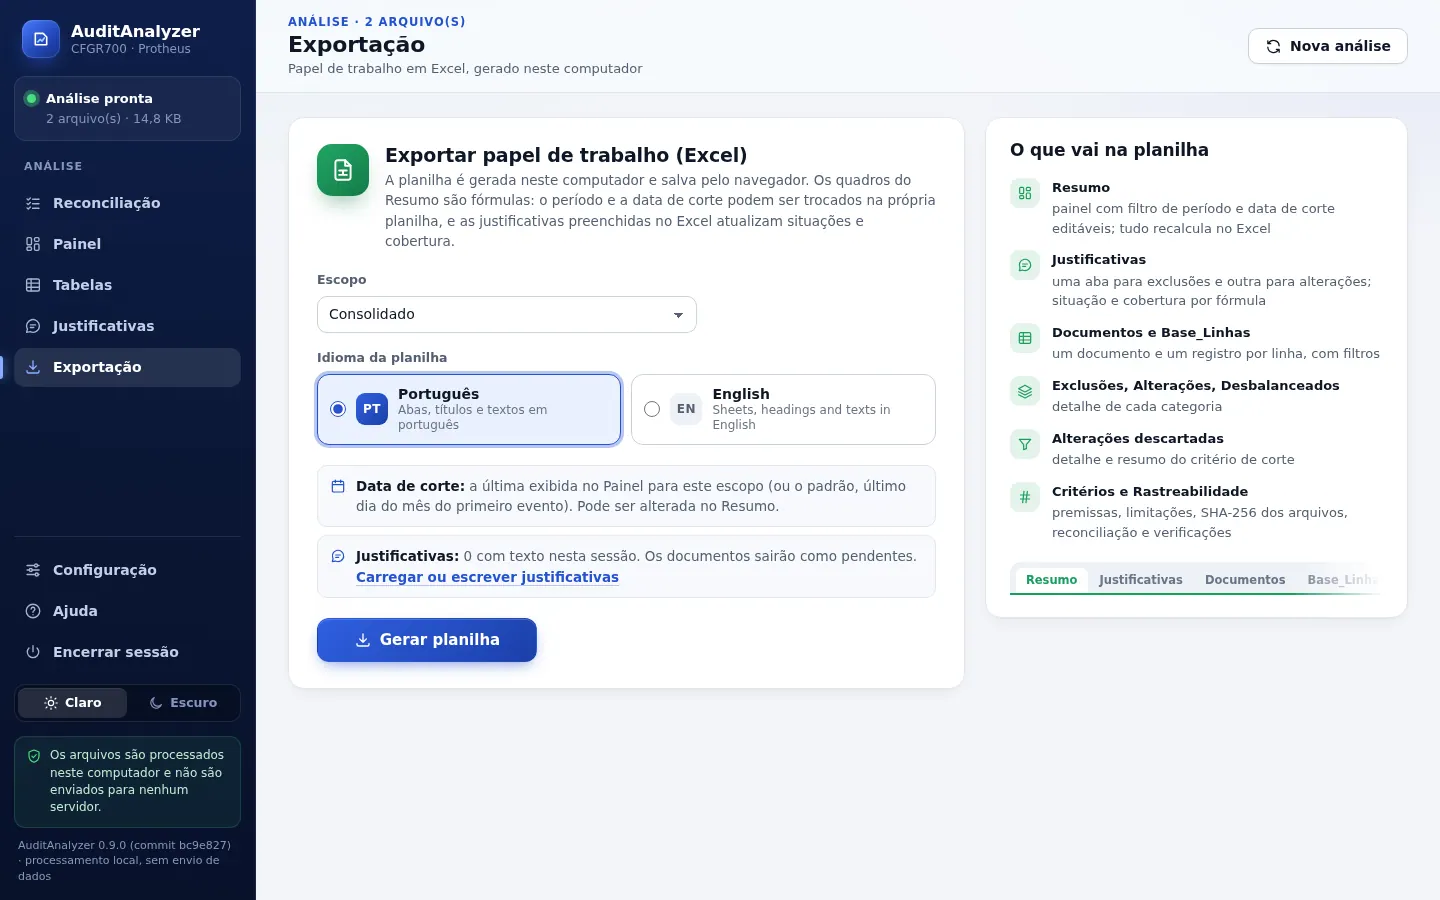
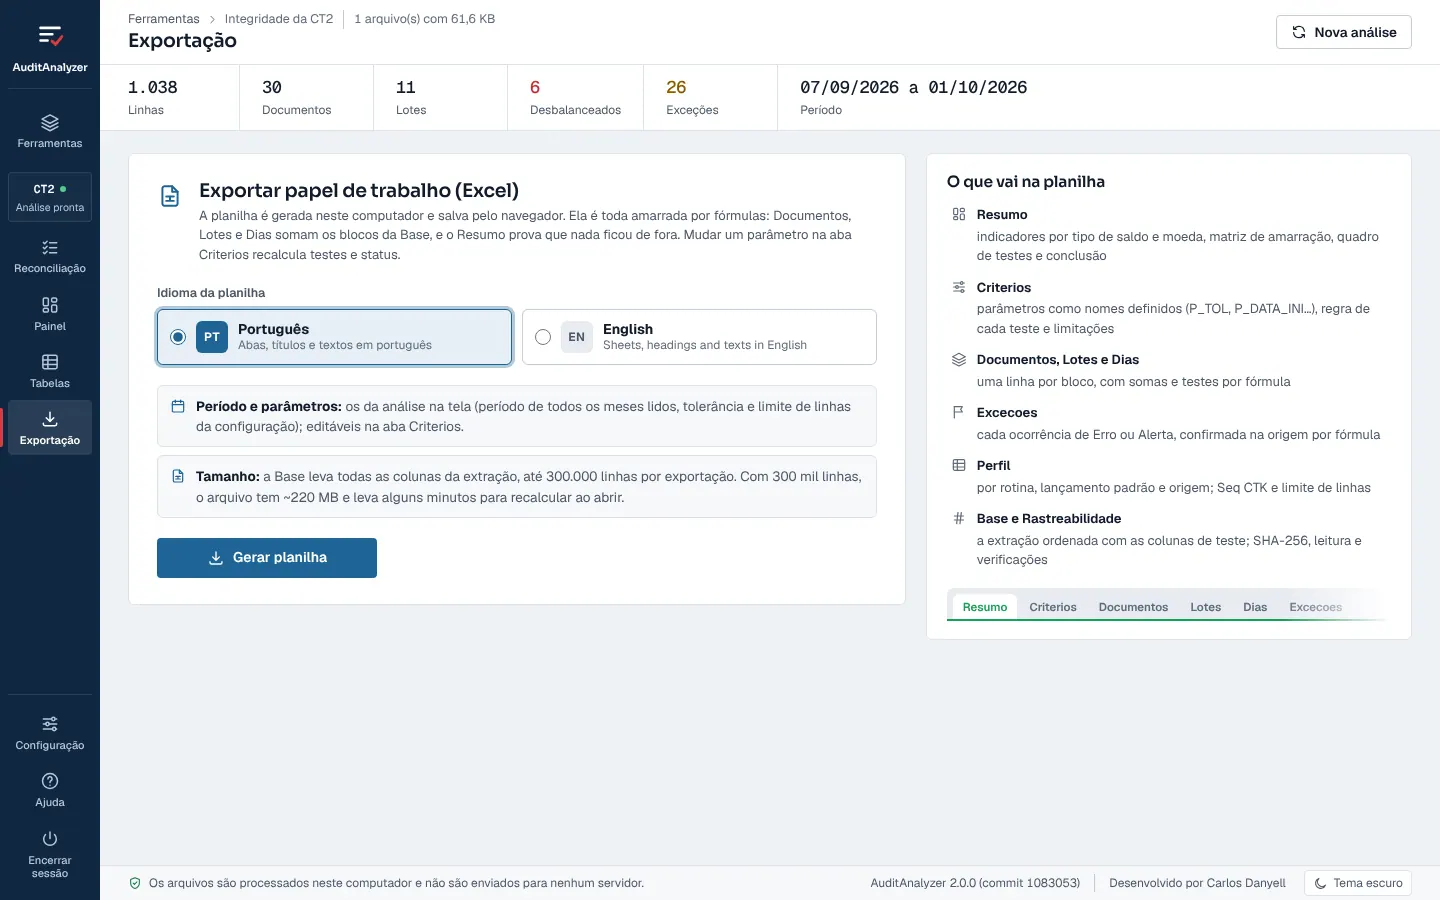
AuditAnalyzer 2.0 no portfólio: plataforma, Integridade da CT2 e novas capturas
- Texto do projeto (pt e en): plataforma de ferramentas de auditoria, com o log de auditoria CFGR700 e a
  Integridade da CT2, papel de trabalho amarrado por fórmulas e interface pronta para novas ferramentas.
- Seis capturas novas da versão 2.0.0, com dados sintéticos: painel da CT2, ferramentas, reconciliação, tabelas
  no tema escuro, painel do CFGR700 e exportação. Só as imagens do AuditAnalyzer foram reprocessadas (mesmos
  tamanhos e qualidade do scripts/process-images.mjs); as demais entradas do manifesto não mudaram.
- Ferramenta de conciliação: pode entrar como uma das ferramentas da plataforma AuditAnalyzer.

Claude-Session: https://claude.ai/code/session_015P9YY8hZswHsBsD8JxLBeJ

diff --git a/src/i18n/pt.ts b/src/i18n/pt.ts
@@ -169,25 +169,26 @@ export const pt = {
       },
       auditanalyzer: {
         name: 'AuditAnalyzer',
-        kind: 'Aplicação web · Auditoria',
+        kind: 'Plataforma web · Auditoria',
         summary:
-          'Ferramenta que analisa o log de auditoria CFGR700 do TOTVS Protheus (lançamentos contábeis da CT2) e gera um papel de trabalho em Excel para auditoria interna e SOX. Todo o processamento acontece no navegador.',
+          'Plataforma de ferramentas de auditoria contábil para o TOTVS Protheus que roda inteira no navegador. Reúne a análise do log de auditoria CFGR700 e a integridade da extração da CT2, e gera papéis de trabalho em Excel para auditoria interna e SOX.',
         highlights: [
-          'Aponta exclusões, alterações, postagens e documentos desbalanceados, por período e por origem manual ou automática',
+          'Log de auditoria (CFGR700): exclusões, alterações, postagens e documentos desbalanceados, por período e por origem manual ou automática',
+          'Integridade da CT2: débito e crédito por documento, lote e dia em cada tipo de saldo e moeda, com testes de balanceamento, consistência e estrutura',
+          'Papel de trabalho amarrado por fórmulas: mudar a tolerância ou o período na planilha recalcula os testes e os status',
           'Lê arquivos de até cerca de 1 milhão de linhas em fluxo, num Web Worker, sem travar a interface',
-          'Papel de trabalho em Excel, em português ou inglês, com justificativas e reconciliação de linhas',
-          'Integridade verificável: SHA-256 dos arquivos, CRC32 do ZIP e invariantes que bloqueiam a exportação',
-          'Nenhum dado sai da máquina: sem servidor, sem chamadas de rede e com Content-Security-Policy restrita',
-          'Regras configuráveis, testes com arquivos sintéticos e testes ponta a ponta com Playwright no CI',
+          'Nenhum dado sai da máquina: sem servidor nem chamadas de rede, com SHA-256 dos arquivos e verificações que bloqueiam a exportação',
+          'Interface de console pronta para receber novas ferramentas, como conciliações, com testes sintéticos e ponta a ponta no CI',
         ],
         shots: {
-          '01-painel':
-            'Painel com excluídos, alterados, desbalanceados e postados, e a tabela de categorias por origem',
-          '02-inicio': 'Tela inicial para carregar as extrações do CFGR700, com o passo a passo da análise',
-          '03-reconciliacao': 'Reconciliação com a integridade dos arquivos, os totais lidos e as verificações',
-          '04-tabelas': 'Tabela de documentos com busca, filtro por origem e abas por categoria',
-          '05-justificativas': 'Lista de documentos excluídos com a situação e a justificativa de cada um',
-          '06-exportacao': 'Exportação do papel de trabalho em Excel, em português ou inglês',
+          '01-painel-ct2':
+            'Painel da integridade da CT2 com os indicadores-chave, os totais por tipo de saldo e moeda e o quadro de testes',
+          '02-ferramentas': 'Tela inicial com as ferramentas da plataforma, o que cada uma lê e a situação',
+          '03-reconciliacao': 'Reconciliação com o veredito de integridade, as verificações e o quadro de testes',
+          '04-tabelas': 'Tabela de documentos da CT2 no tema escuro, com segmento, busca e as colunas de teste',
+          '05-painel-cfgr700':
+            'Painel do log de auditoria com período, data de corte e as categorias por origem manual ou automática',
+          '06-exportacao': 'Exportação do papel de trabalho amarrado por fórmulas, em português ou inglês',
         },
       },
       conciliacao: {
@@ -198,6 +199,7 @@ export const pt = {
         highlights: [
           'Cruza os lançamentos do razão com os relatórios do ERP',
           'Roda no navegador, na própria máquina: nenhum dado é enviado para fora',
+          'Pode entrar como uma das ferramentas da plataforma AuditAnalyzer',
         ],
         illustrationAlt: 'Ilustração abstrata de duas colunas de registros sendo cruzadas e conciliadas',
         shots: {},

diff --git a/src/i18n/en.ts b/src/i18n/en.ts
@@ -170,24 +170,26 @@ export const en: Dict = {
       },
       auditanalyzer: {
         name: 'AuditAnalyzer',
-        kind: 'Web application · Audit',
+        kind: 'Web platform · Audit',
         summary:
-          'A tool that analyzes the TOTVS Protheus CFGR700 audit log (journal entries, table CT2) and produces an Excel workpaper for internal audit and SOX. All processing happens in the browser.',
+          'A platform of accounting audit tools for TOTVS Protheus that runs entirely in the browser. It brings together the CFGR700 audit log analysis and the integrity of the CT2 journal extraction, and produces Excel workpapers for internal audit and SOX.',
         highlights: [
-          'Flags deleted, changed and posted entries and unbalanced documents, by period and by manual or automatic origin',
+          'Audit log (CFGR700): deleted, changed and posted entries and unbalanced documents, by period and by manual or automatic origin',
+          'CT2 integrity: debits and credits per document, batch and day within each balance type and currency, with balancing, consistency and structure tests',
+          'Workpaper tied out by formulas: changing the tolerance or the period in the spreadsheet recalculates the tests and their status',
           'Streams files of up to about 1 million rows in a Web Worker, keeping the interface responsive',
-          'Excel workpaper in Portuguese or English, with justifications and a row reconciliation',
-          'Verifiable integrity: SHA-256 of the files, ZIP CRC32 checks and invariants that block the export',
-          'No data leaves the machine: no server, no network calls and a strict Content-Security-Policy',
-          'Configurable rules, tests with synthetic files and end-to-end tests with Playwright in CI',
+          'No data leaves the machine: no server and no network calls, with SHA-256 of the files and checks that block the export',
+          'A console interface ready for new tools, such as reconciliations, with synthetic and end-to-end tests in CI',
         ],
         shots: {
-          '01-painel': 'Dashboard with deleted, changed, unbalanced and posted documents and the table by origin',
-          '02-inicio': 'Start screen for loading the CFGR700 extractions, with the analysis steps',
-          '03-reconciliacao': 'Reconciliation with file integrity, the totals read and the checks',
-          '04-tabelas': 'Documents table with search, origin filter and one tab per category',
-          '05-justificativas': 'List of deleted documents with the status and justification of each one',
-          '06-exportacao': 'Export of the Excel workpaper, in Portuguese or English',
+          '01-painel-ct2':
+            'CT2 integrity dashboard with the key figures, totals by balance type and currency and the board of tests',
+          '02-ferramentas': 'Start screen with the platform tools, what each one reads and its status',
+          '03-reconciliacao': 'Reconciliation with the integrity verdict, the checks and the board of tests',
+          '04-tabelas': 'CT2 documents table in the dark theme, with segment, search and the test columns',
+          '05-painel-cfgr700':
+            'Audit log dashboard with the period, the cut-off date and the categories by manual or automatic origin',
+          '06-exportacao': 'Export of the workpaper tied out by formulas, in Portuguese or English',
         },
       },
       conciliacao: {
@@ -198,6 +200,7 @@ export const en: Dict = {
         highlights: [
           'Matches general ledger entries against ERP reports',
           'Runs in the browser on your own machine: no data is sent anywhere',
+          'May join the AuditAnalyzer platform as one of its tools',
         ],
         illustrationAlt: 'Abstract illustration of two columns of records being matched and reconciled',
         shots: {},

diff --git a/src/data/projects.ts b/src/data/projects.ts
@@ -89,11 +89,11 @@ export const projects: Project[] = [
     visual: 'browser',
     fictionalData: true,
     shots: shots('auditanalyzer', [
-      ['01-painel', 'browser'],
-      ['02-inicio', 'browser'],
+      ['01-painel-ct2', 'browser'],
+      ['02-ferramentas', 'browser'],
       ['03-reconciliacao', 'browser'],
       ['04-tabelas', 'browser'],
-      ['05-justificativas', 'browser'],
+      ['05-painel-cfgr700', 'browser'],
       ['06-exportacao', 'browser'],
     ]),
   },
